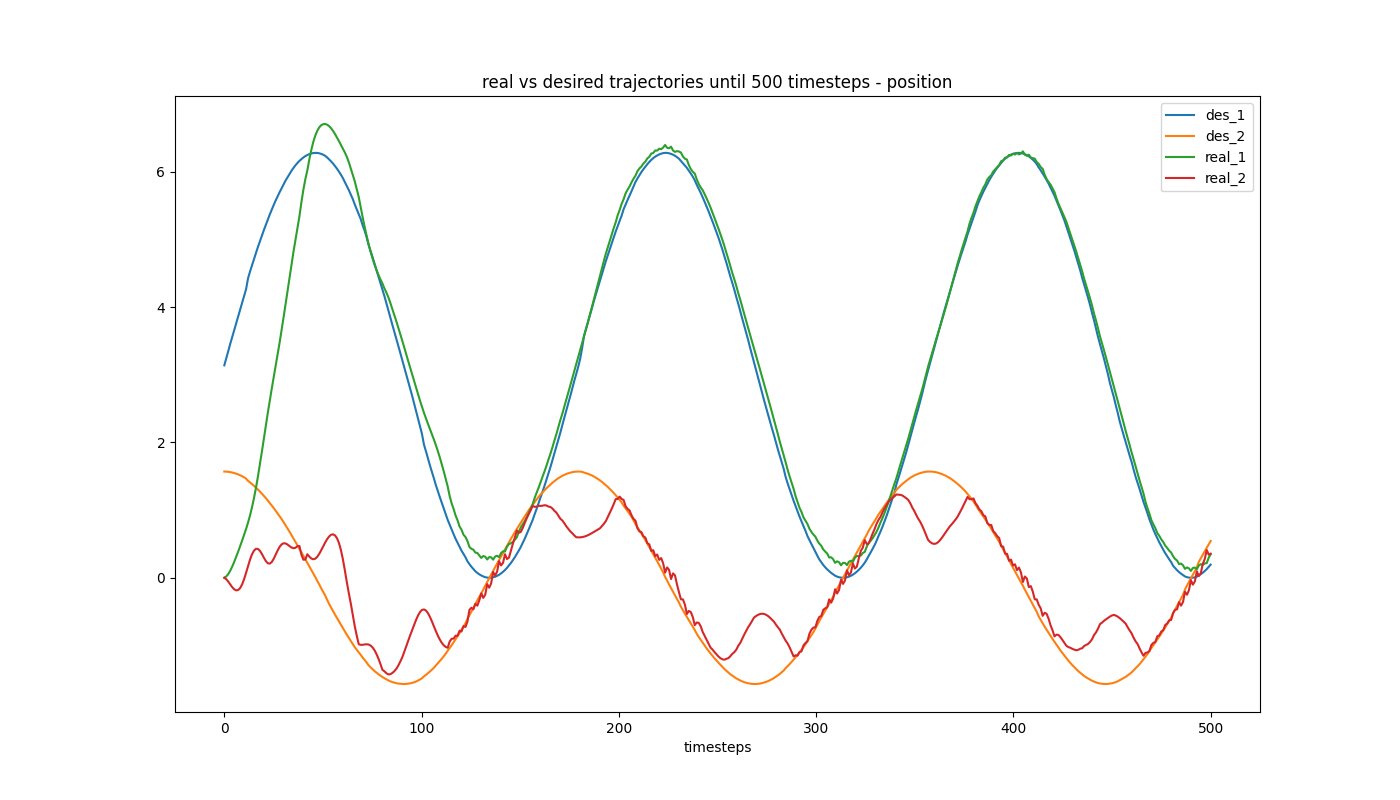
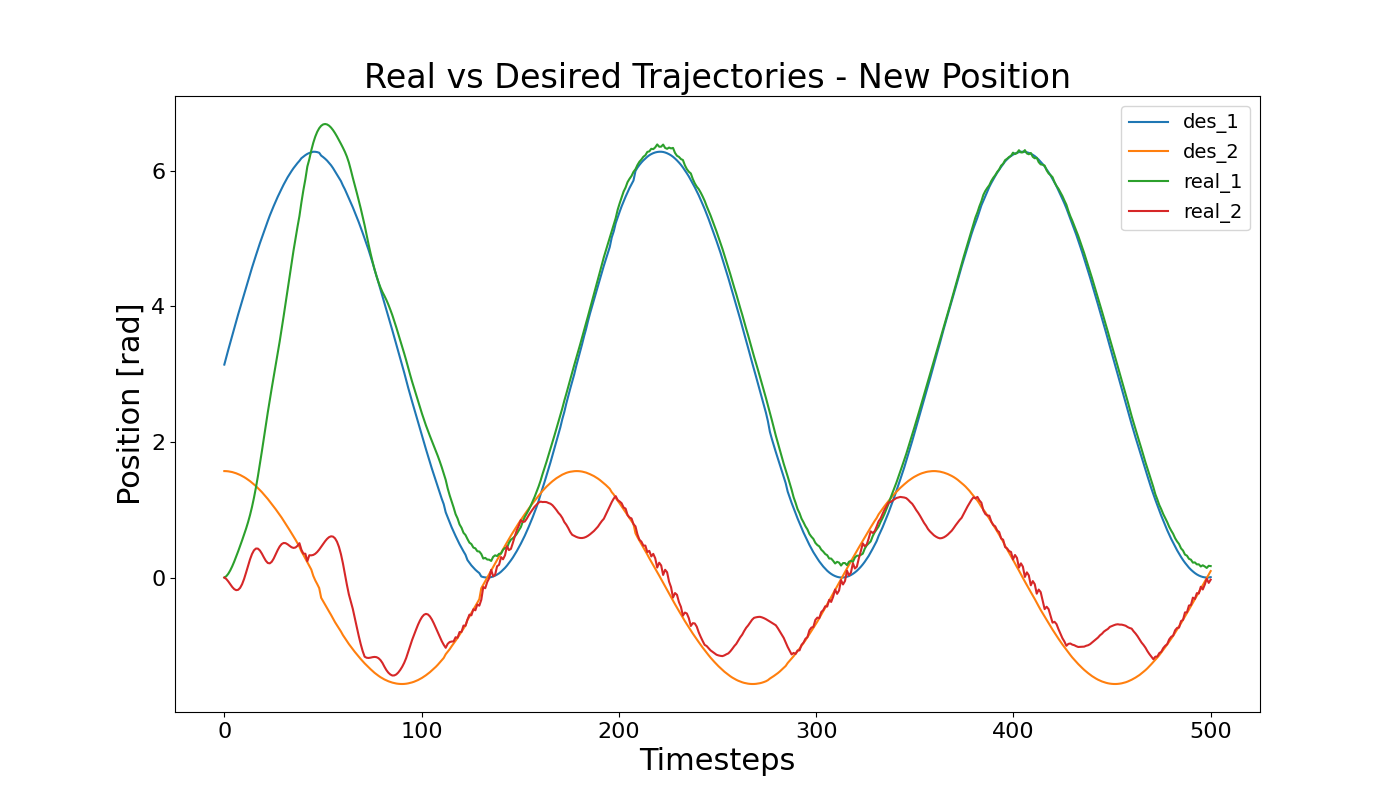
cleaner figures

diff --git a/exercises/og_motor_PID.py b/exercises/og_motor_PID.py
@@ -72,6 +72,30 @@ with mujoco.viewer.launch_passive(model, data) as viewer:
             plt.legend()
             plt.xlabel("timesteps")
             plt.title("Signals and trajectories until over 500 timesteps - Original motor")
+            # plt.savefig("motorPIDpics/og_motor_fullView.png")
+            plt.show()
+
+
+            #Create figure and the first (left) axis
+            fig, ax1 = plt.subplots(figsize=(14, 8))
+            ax1.tick_params(axis='both', labelsize=16)
+            #Plot trajectories on the left axis
+            line1 = ax1.plot(x, trajectory1, label="traj1")
+            line2 = ax1.plot(x, trajectory2, label="traj2")
+            ax1.set_xlabel("Timesteps", fontsize=22)
+            ax1.set_ylabel("Target Trajectory Position [rad]", fontsize=22) # Left label
+            # Create the second (right) axis
+            ax2 = ax1.twinx()
+            ax2.tick_params(axis='both', labelsize=16)
+            # Plot signals on the right axis
+            line3 = ax2.plot(x, signals1, label="u1", color="red")
+            line4 = ax2.plot(x, signals2, label="u2", color="green")
+            ax2.set_ylabel("Control Signal", fontsize=22) # Right label
+            # 5. Combined Legend
+            lines = line1 + line2 + line3 + line4
+            labels = [l.get_label() for l in lines]
+            ax1.legend(lines, labels, loc='best', fontsize=14)
+            plt.title("Signals and Trajectories - Original Motor", fontsize=24)
             plt.savefig("motorPIDpics/og_motor_fullView.png")
             plt.show()
 
@@ -85,7 +109,7 @@ with mujoco.viewer.launch_passive(model, data) as viewer:
             plt.legend()    
             plt.xlabel("timesteps")
             plt.title("Signals and trajectories until over 500 timesteps - Original motor zoomed")
-            plt.savefig("motorPIDpics/og_motor_zoomView.png")
+            # plt.savefig("motorPIDpics/og_motor_zoomView.png")
             plt.show()
 
         # Apply control signals

diff --git a/exercises/og_position_PID.py b/exercises/og_position_PID.py
@@ -73,6 +73,29 @@ with mujoco.viewer.launch_passive(model, data) as viewer:
             plt.legend()
             plt.xlabel("timesteps")
             plt.title("Signals and trajectories until over 500 timesteps - Original position")
+            # plt.savefig("posPIDpics/og_pos_fullView.png")
+            plt.show()
+
+            #Create figure and the first (left) axis
+            fig, ax1 = plt.subplots(figsize=(14, 8))
+            ax1.tick_params(axis='both', labelsize=16)
+            #Plot trajectories on the left axis
+            line1 = ax1.plot(x, trajectory1, label="traj1")
+            line2 = ax1.plot(x, trajectory2, label="traj2")
+            ax1.set_xlabel("Timesteps", fontsize=22)
+            ax1.set_ylabel("Target Trajectory Position [rad]", fontsize=22) # Left label
+            # Create the second (right) axis
+            ax2 = ax1.twinx()
+            ax2.tick_params(axis='both', labelsize=16)
+            # Plot signals on the right axis
+            line3 = ax2.plot(x, signals1, label="u1", color="red")
+            line4 = ax2.plot(x, signals2, label="u2", color="green")
+            ax2.set_ylabel("Control Signal", fontsize=22) # Right label
+            # 5. Combined Legend
+            lines = line1 + line2 + line3 + line4
+            labels = [l.get_label() for l in lines]
+            ax1.legend(lines, labels, loc='best', fontsize=14)
+            plt.title("Signals and Trajectories - Original Position", fontsize=24)
             plt.savefig("posPIDpics/og_pos_fullView.png")
             plt.show()
 
@@ -86,7 +109,7 @@ with mujoco.viewer.launch_passive(model, data) as viewer:
             plt.legend()    
             plt.xlabel("timesteps")
             plt.title("Signals and trajectories until over 500 timesteps - Original position Zoomed")
-            plt.savefig("posPIDpics/og_pos_zoomView.png")
+            # plt.savefig("posPIDpics/og_pos_zoomView.png")
             plt.show()
             
 

diff --git a/exercises/position_PID.py b/exercises/position_PID.py
@@ -21,8 +21,8 @@ def desired_trajectory(t):
     # joint1 trajectory is centered at pi, +/- pi movement (0 to 2pi)
     amplitude = 3.14 # set to control range of motor / gear ratio
     joint1_desired = 3.14 + amplitude * np.sin(1*np.pi*t)
-    # joint2_desired = 1.57 * np.cos(1*np.pi*t)
-    joint2_desired = 1.57 * np.sin(1*np.pi*t)
+    # joint2_desired = 1.57 * np.cos(1*np.pi*t) #for first fig
+    joint2_desired = 1.57 * np.sin(1*np.pi*t) #for second fig
     return joint1_desired, joint2_desired
     #return 0.5 * np.sin(2 * np.pi * 0.5 * t), 0.3 * np.cos(2 * np.pi * 0.5 * t)  # Adjust amplitude and frequency
 
@@ -74,15 +74,17 @@ with mujoco.viewer.launch_passive(model, data) as viewer:
         # CHANGE TO True TO TRIGGER LOGGING
         if ((True) and (len(trajectory1) == 500)):
             plt.figure(figsize=(14, 8))
+            plt.tick_params(axis='both', labelsize=16)
             plt.plot(x, trajectory1, label="des_1")
             plt.plot(x, trajectory2, label="des_2")
             plt.plot(x, real_traj1, label="real_1")
             plt.plot(x, real_traj2, label="real_2")
-            plt.legend()
-            plt.xlabel("timesteps")
-            plt.title("real vs desired trajectories until 500 timesteps - position")
-            # plt.savefig("posPIDpics/PIDforbothJ.png")
-            plt.savefig("posPIDpics/PIDforBoth_and_sinforJ2.png")
+            plt.legend(fontsize=14)
+            plt.xlabel("Timesteps" ,fontsize=22)
+            plt.ylabel("Position [rad]", fontsize=22)
+            plt.title("Real vs Desired Trajectories - New Position", fontsize=24)
+            # plt.savefig("posPIDpics/PIDforbothJ.png") #first fig
+            plt.savefig("posPIDpics/PIDforBoth_and_sinforJ2.png") #second fig
             plt.show()
 
         # Apply control signals

diff --git a/exercises/motor_PID.py b/exercises/motor_PID.py
@@ -72,13 +72,15 @@ with mujoco.viewer.launch_passive(model, data) as viewer:
         # CHANGE TO True TO TRIGGER LOGGING
         if ((True) and (len(trajectory1) == 500)):
             plt.figure(figsize=(14, 8))
+            plt.tick_params(axis='both', labelsize=16)
             plt.plot(x, trajectory1, label="des_1")
             plt.plot(x, trajectory2, label="des_2")
             plt.plot(x, real_traj1, label="real_1")
             plt.plot(x, real_traj2, label="real_2")
-            plt.legend()
-            plt.xlabel("timesteps")
-            plt.title("real vs desired trajectories until 500 timesteps - motor")
+            plt.legend(fontsize=14)
+            plt.xlabel("Timesteps" ,fontsize=22)
+            plt.ylabel("Position [rad]", fontsize=22)
+            plt.title("Real vs Desired Trajectories - New Motor", fontsize=24)
             plt.savefig("motorPIDpics/newMotor.png")
             plt.show()
 

diff --git a/README.md b/README.md
@@ -32,7 +32,7 @@ Running:
     - The new scripts uses arrays to specify different gains for each joint. These are also further tuned. 
 - Logging
     - Original script tracks: target joint trajectories + control signals
-    - New script tracks: target joint trajectories + actual joint positions
+    - New script tracks: target joint trajectories + actual joint positions. This allows for easier comparison/error tracking.
 
 
 
@@ -60,36 +60,23 @@ V2 (PIDforBoth_and_sinforJ2.png)
 
 
 
+<br>  <br />
+Click images to open file.
 
-
-
-
-<table style="width:100%">
-  <tr>
-    <td align="center">
-      <a href="exercises/posPIDpics/og_pos_fullView.png">
-        <img src="exercises/posPIDpics/og_pos_fullView.png" width="150%" title="Click to enlarge">
-      </a>
-      <br>
-      <sup>Original Positional PID Control (Full View)</sup>
-    </td>
-    <td align="center">
-      <a href="exercises/posPIDpics/og_pos_zoomView.png">
-        <img src="exercises/posPIDpics/og_pos_zoomView.png" width="150%" title="Click to enlarge">
-      </a>
-      <br>
-      <sup>Original Positional PID Control (Zoomed)</sup>
-    </td>
-  </tr>
-</table>
-
+<div align="center">
+  <a href="exercises/posPIDpics/og_pos_fullView.png">
+    <img src="exercises/posPIDpics/og_pos_fullView.png" width="500" title="Click to enlarge">
+  </a>
+  <br>
+  <sup>Original Positional PID Control</sup>
+</div>
 
 <div align="center">
   <a href="exercises/posPIDpics/PIDforbothJ.png">
     <img src="exercises/posPIDpics/PIDforbothJ.png" width="500" title="Click to enlarge">
   </a>
   <br>
-  <sup>V1 PID Position (Click image to open file)</sup>
+  <sup>V1 PID Position</sup>
 </div>
 
 <div align="center">
@@ -97,7 +84,7 @@ V2 (PIDforBoth_and_sinforJ2.png)
     <img src="exercises/posPIDpics/PIDforBoth_and_sinforJ2.png" width="500" title="Click to enlarge">
   </a>
   <br>
-  <sup>V2 PID Position (Click image to open file)</sup>
+  <sup>V2 PID Position</sup>
 </div>
 
 
@@ -118,26 +105,17 @@ V2 (PIDforBoth_and_sinforJ2.png)
 `position_PID.py`
 - specific PID gains for each, tuned
 
+<br>  <br />
+Click images to open file.
 
 
-<table style="width:100%">
-  <tr>
-    <td align="center">
-      <a href="exercises/motorPIDpics/og_motor_fullView.png">
-        <img src="exercises/motorPIDpics/og_motor_fullView.png" width="150%" title="Click to enlarge">
-      </a>
-      <br>
-      <sup>Original Motor PID Control (Full View)</sup>
-    </td>
-    <td align="center">
-      <a href="exercises/motorPIDpics/og_motor_zoomView.png">
-        <img src="exercises/motorPIDpics/og_motor_zoomView.png" width="150%" title="Click to enlarge">
-      </a>
-      <br>
-      <sup>Original Motor PID Control (Zoomed)</sup>
-    </td>
-  </tr>
-</table>
+<div align="center">
+  <a href="exercises/motorPIDpics/og_motor_fullView.png">
+    <img src="exercises/motorPIDpics/og_motor_fullView.png" width="500" title="Click to enlarge">
+  </a>
+  <br>
+  <sup>Original Motor PID Control</sup>
+</div>
 
 
 <div align="center">
@@ -145,5 +123,5 @@ V2 (PIDforBoth_and_sinforJ2.png)
     <img src="exercises/motorPIDpics/newMotor.png" width="500" title="Click to enlarge">
   </a>
   <br>
-  <sup>New PID Motor (Click image to open file)</sup>
+  <sup>New PID Motor</sup>
 </div>
